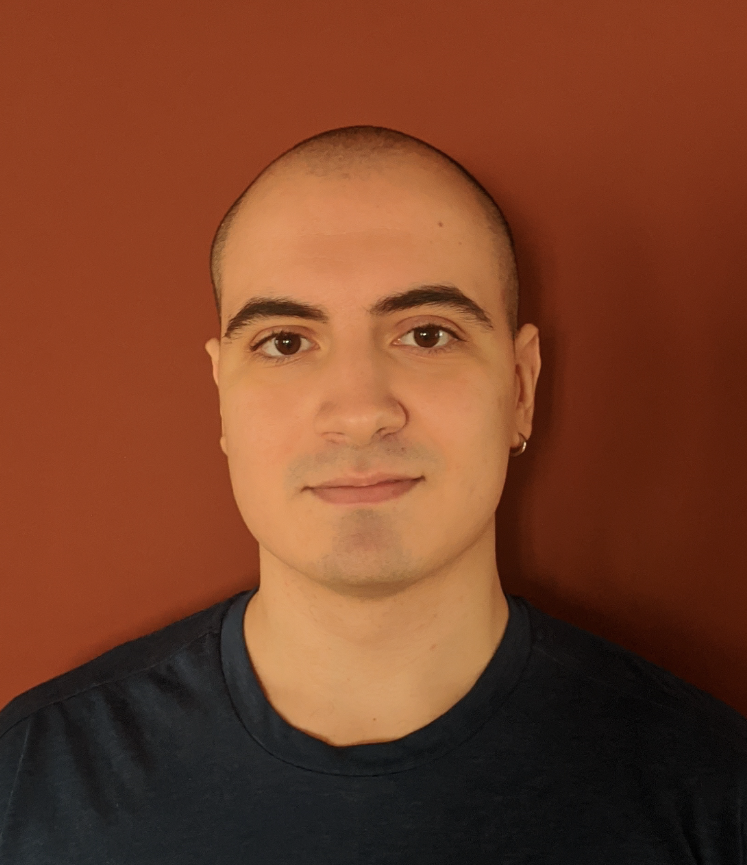
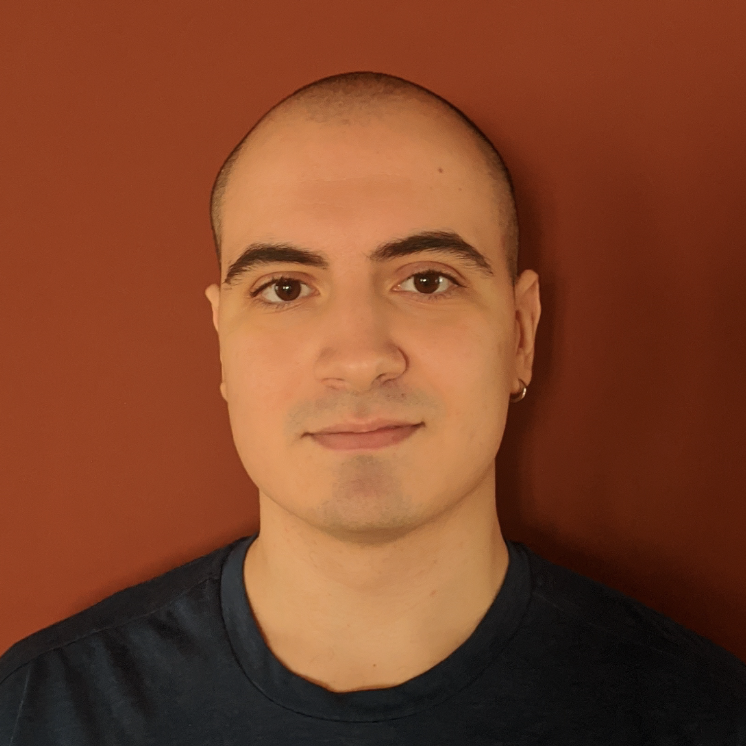
cropped pics

diff --git a/content/team/thomas/README.md b/content/team/thomas/README.md
@@ -1,0 +1,29 @@
+The repository for https://johannesstern.github.io/, the academic website for Johannes Stern
+
+Created with [academic for hugo](https://sourcethemes.com/academic/)
+
+# How to use:
+
+Getting started
+- Just download the repository from github.
+
+A number of hugo commands are run from the terminal.
+- Open terminal
+- Locate to folder, e.g., `cd Documents/GitHub/johannes-website`. You can then run `cd ..` to return to the "GitHub" folder to then "cd" into the truthandsemantics-website.
+
+To run hugo server which builds a local version of the site:
+- In terminal run `hugo server`
+- then it will give you the url to locate the website.
+
+To create a new page:
+- In terminal run `hugo new publication/name-of-publication`, or as appropriate.
+- You can modify the archetype to change what's created by default. Duplicate file, e.g, `themes/academic/archetypes/publication/index.md` to `archetypes/publication/index.md` and modify.
+
+Editing content:
+- I suggest using atom editor.
+- Most content is located in `content` folder. Some settings are in `config` folder.
+- Don't edit files in `themes\academic`. To modify the theme create a \`local\` version of the folder from `themes\academic`. E.g. in `layouts` there's code that overwrites the theme.
+
+To deploy:
+- For truthandsemantics website, just push changes to the master branch on GitHub desktop. Netlify will automatically push it to truthandsemantics.netlify.app.
+- For johannes-website you also need to run deploy.sh from terminal: `bash deploy.sh`. This will then push the changes from the johannes-website repo to johannesstern.github.io.
